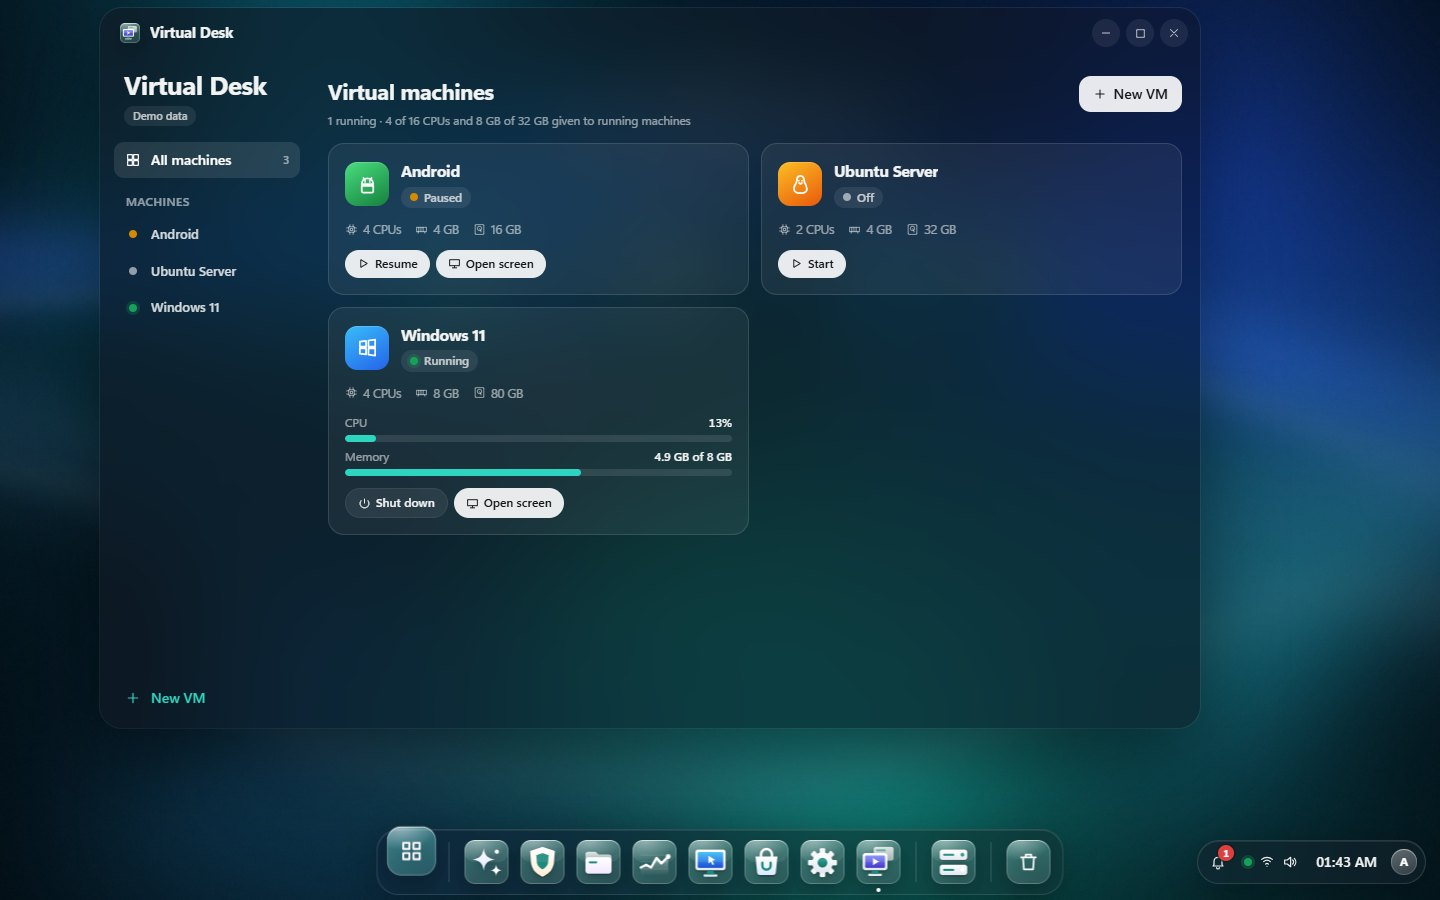
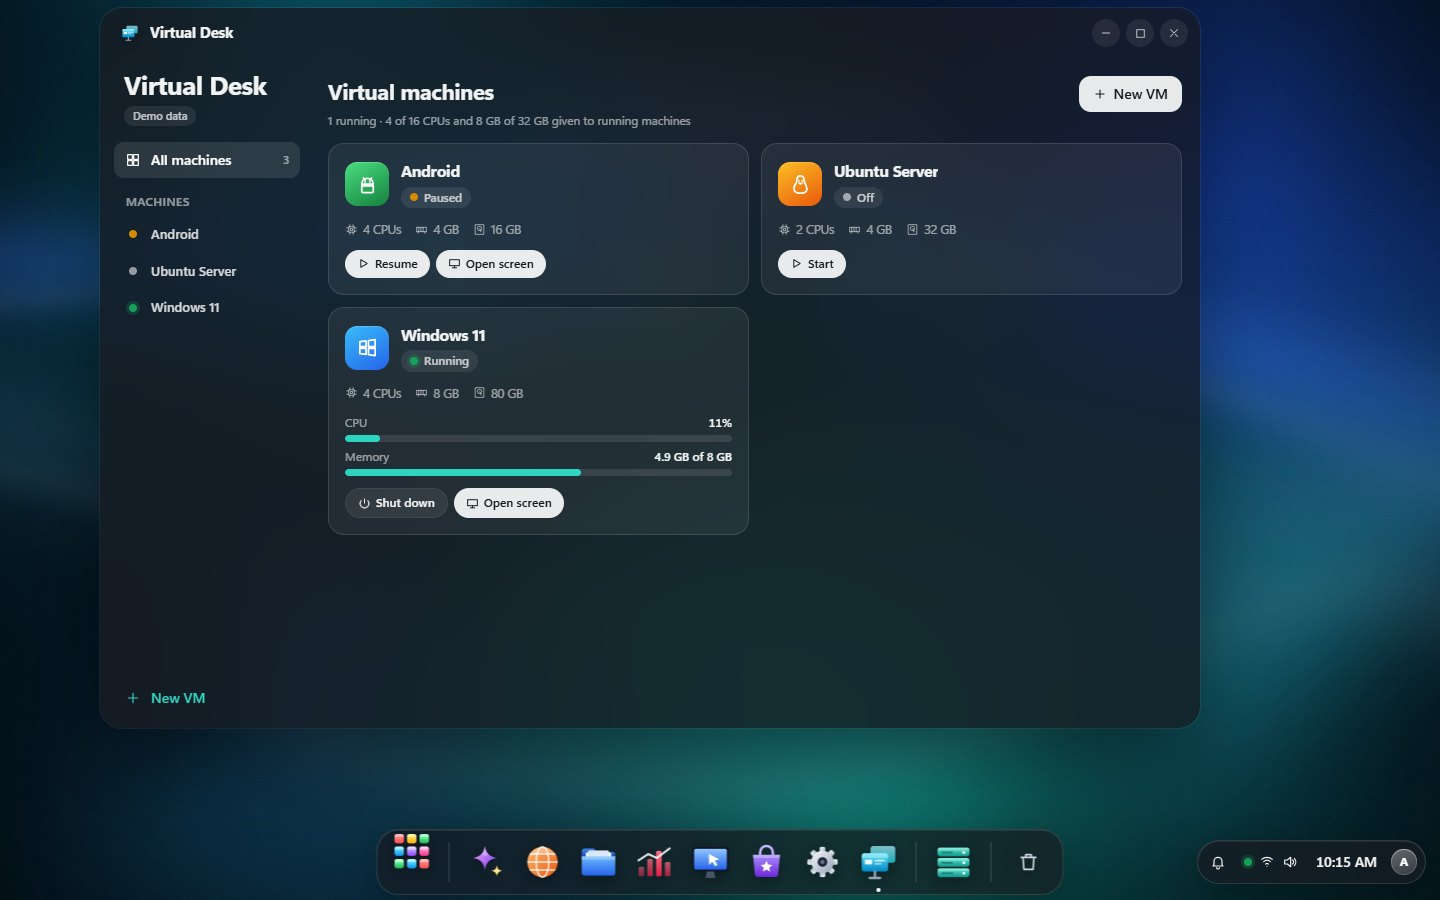
Site and README: per-person spaces, shared folders and the new look
Feature lists cover private homes, shared folders with per-person
permissions, apps per person, the new icons, Transparency slider and menu
bar. Screenshots retaken on 0.5.0 (device name hidden), plus File Sharing.

diff --git a/docs/index.html b/docs/index.html
@@ -207,18 +207,18 @@ footer a:hover{color:#fff}
     <p>NoCapOS runs as root on your machine, so it can manage the whole box, and every change is admin-only and written to an audit log.</p>
   </div>
   <div class="grid">
-    <div class="card"><div class="ic"><svg viewBox="0 0 24 24" fill="none" stroke="currentColor" stroke-width="1.8"><path d="M4 6h16v12H4zM4 10h16"/></svg></div><h3>Glass desktop</h3><p>A frosted-glass desktop with 10 wallpapers. The accent and the glass app icons follow the wallpaper, and your installed apps sit on the home screen.</p></div>
+    <div class="card"><div class="ic"><svg viewBox="0 0 24 24" fill="none" stroke="currentColor" stroke-width="1.8"><path d="M4 6h16v12H4zM4 10h16"/></svg></div><h3>Glass desktop</h3><p>A frosted-glass desktop with 10 wallpapers and a Transparency slider, glossy app icons, and a menu bar on the wallpaper with your profile and account menu.</p></div>
     <div class="card"><div class="ic"><svg viewBox="0 0 24 24" fill="none" stroke="currentColor" stroke-width="1.8"><path d="M5 8h14l-1 12H6zM9 8V6a3 3 0 0 1 6 0v2"/></svg></div><h3>App Store</h3><p>One-click Jellyfin, Nextcloud, Open WebUI + Ollama, Vaultwarden, Syncthing, Gitea, code-server, n8n and more, with updates and release notes. Click and hold to remove.</p></div>
     <div class="card"><div class="ic"><svg viewBox="0 0 24 24" fill="none" stroke="currentColor" stroke-width="1.8"><path d="M3 6h7l2 2h9v11H3z"/></svg></div><h3>Files</h3><p>Home, Recents, Favorites, shared folders, network devices and external drives, with quick look, zip/tar, Trash and protected system folders.</p></div>
     <div class="card"><div class="ic"><svg viewBox="0 0 24 24" fill="none" stroke="currentColor" stroke-width="1.8"><rect x="3" y="5" width="18" height="14" rx="2"/><path d="m3 16 5-5 4 4 3-3 6 6"/></svg></div><h3>Photos</h3><p>A timeline by years, months and days, albums, favorites, a viewer with camera details, and Recently Deleted.</p></div>
     <div class="card"><div class="ic"><svg viewBox="0 0 24 24" fill="none" stroke="currentColor" stroke-width="1.8"><path d="M12 3a9 9 0 1 1-8.5 6"/><path d="M3 4v5h5M12 8v4l3 2"/></svg></div><h3>Backups & Rewind</h3><p>Encrypted, scheduled backups to a drive, SFTP or S3/B2, and Rewind to bring back any file from any day.</p></div>
     <div class="card"><div class="ic"><svg viewBox="0 0 24 24" fill="none" stroke="currentColor" stroke-width="1.8"><rect x="4" y="4" width="16" height="7" rx="2"/><rect x="4" y="13" width="16" height="7" rx="2"/></svg></div><h3>Storage & ZFS</h3><p>Disk health (SMART), ZFS pools (mirror, RAIDZ1/2/3), datasets, snapshots and scrubs. Erasing always needs a typed confirmation.</p></div>
-    <div class="card"><div class="ic"><svg viewBox="0 0 24 24" fill="none" stroke="currentColor" stroke-width="1.8"><path d="M4 7h16v10H4zM8 21h8M12 17v4"/><path d="M8 11h8"/></svg></div><h3>Network drives & sharing</h3><p>Connect SMB/NFS shares, and share any folder over SMB and WebDAV, right inside Files. Plus Cloud Imports from Google Drive, Dropbox and OneDrive.</p></div>
+    <div class="card"><div class="ic"><svg viewBox="0 0 24 24" fill="none" stroke="currentColor" stroke-width="1.8"><path d="M4 7h16v10H4zM8 21h8M12 17v4"/><path d="M8 11h8"/></svg></div><h3>Shared folders</h3><p>Create shared folders in Files and give each person Read/Write, Read only or No access. They connect over SMB or WebDAV with their own password. Plus SMB/NFS drives and Cloud Imports.</p></div>
     <div class="card"><div class="ic"><svg viewBox="0 0 24 24" fill="none" stroke="currentColor" stroke-width="1.8"><rect x="6" y="3" width="15" height="11" rx="2"/><rect x="3" y="7" width="15" height="11" rx="2"/><path d="M8 21h6M11 18v3"/></svg></div><h3>Virtual Desk</h3><p>Run Windows, Linux and Android virtual machines: a four-step New VM wizard, live usage, snapshots, and each machine's screen in its own window.</p></div>
     <div class="card"><div class="ic"><svg viewBox="0 0 24 24" fill="none" stroke="currentColor" stroke-width="1.8"><path d="M6 16V11a6 6 0 0 1 12 0v5l2 2H4zM10 21h4"/></svg></div><h3>Notifications</h3><p>Updates, app updates, app errors, storage and backups. macOS-style banners with the menu-bar desktop, Windows-style toasts with the taskbar.</p></div>
     <div class="card"><div class="ic"><svg viewBox="0 0 24 24" fill="none" stroke="currentColor" stroke-width="1.8"><path d="M12 3l8 4.5v9L12 21l-8-4.5v-9zM12 12l8-4.5M12 12v9M12 12 4 7.5"/></svg></div><h3>Docker, your way</h3><p>Edit any container (ports, folders, macvlan/ipvlan networks, environment, limits), create networks and run Compose stacks.</p></div>
     <div class="card"><div class="ic"><svg viewBox="0 0 24 24" fill="none" stroke="currentColor" stroke-width="1.8"><path d="M4 5h16v14H4zM7 9l3 3-3 3M13 15h4"/></svg></div><h3>Root terminal</h3><p>A real shell on the server, or inside any container, right in the browser.</p></div>
-    <div class="card"><div class="ic"><svg viewBox="0 0 24 24" fill="none" stroke="currentColor" stroke-width="1.8"><path d="M16 14a4 4 0 1 0-8 0M12 10a3 3 0 1 0 0-6 3 3 0 0 0 0 6zM4 20c0-3 3.6-5 8-5s8 2 8 5"/></svg></div><h3>Users & network</h3><p>Sign in with the machine's Linux accounts, manage users, join Wi-Fi, set static IPs with automatic rollback, check for updates.</p></div>
+    <div class="card"><div class="ic"><svg viewBox="0 0 24 24" fill="none" stroke="currentColor" stroke-width="1.8"><path d="M16 14a4 4 0 1 0-8 0M12 10a3 3 0 1 0 0-6 3 3 0 0 0 0 6zM4 20c0-3 3.6-5 8-5s8 2 8 5"/></svg></div><h3>A space for everyone</h3><p>Each person gets a private Home (their own Linux home), sees only the folders and apps you allow, and keeps their own look. Plus Wi-Fi, static IPs and updates.</p></div>
     <div class="card"><div class="ic"><svg viewBox="0 0 24 24" fill="none" stroke="currentColor" stroke-width="1.8"><path d="M3 12h4l3-7 4 14 3-7h4"/></svg></div><h3>Monitor & more</h3><p>Live CPU, memory, disks, network and GPUs, plus Remote Desktop, a Brave browser, one-click scripts and a local AI assistant.</p></div>
     <div class="card"><div class="ic"><svg viewBox="0 0 24 24" fill="none" stroke="currentColor" stroke-width="1.8"><path d="M12 3l8 4v5c0 5-3.4 8-8 9-4.6-1-8-4-8-9V7z"/></svg></div><h3>Secure by default</h3><p>argon2id passwords, two-factor sign-in, rotating sessions, an audit log of every admin action and protected system folders.</p></div>
   </div>
@@ -231,7 +231,7 @@ footer a:hover{color:#fff}
     <p>Real screenshots of NoCapOS running on a Linux server.</p>
   </div>
   <div class="shots">
-    <figure class="shot"><a href="screenshots/launchpad.jpg"><img src="screenshots/launchpad.jpg" alt="Launchpad" loading="lazy" width="1440" height="900"></a><figcaption><b>Launchpad</b>Glass icons for NoCapOS apps, real icons for installed apps.</figcaption></figure>
+    <figure class="shot"><a href="screenshots/launchpad.jpg"><img src="screenshots/launchpad.jpg" alt="Launchpad" loading="lazy" width="1440" height="900"></a><figcaption><b>Launchpad</b>Glossy icons for NoCapOS apps, real icons for installed apps.</figcaption></figure>
     <figure class="shot"><a href="screenshots/files.jpg"><img src="screenshots/files.jpg" alt="Files" loading="lazy" width="1440" height="900"></a><figcaption><b>Files</b>Favorites, recents, network devices and quick look.</figcaption></figure>
     <figure class="shot"><a href="screenshots/photos.jpg"><img src="screenshots/photos.jpg" alt="Photos timeline" loading="lazy" width="1440" height="900"></a><figcaption><b>Photos</b>Timeline, On this day, albums and favorites.</figcaption></figure>
     <figure class="shot"><a href="screenshots/app-store.jpg"><img src="screenshots/app-store.jpg" alt="App Store" loading="lazy" width="1440" height="900"></a><figcaption><b>App Store</b>Featured apps, categories, installs and updates.</figcaption></figure>
@@ -239,6 +239,7 @@ footer a:hover{color:#fff}
     <figure class="shot"><a href="screenshots/storage.jpg"><img src="screenshots/storage.jpg" alt="Storage with ZFS pools" loading="lazy" width="1440" height="900"></a><figcaption><b>Storage</b>Disk health and ZFS pools (sample data).</figcaption></figure>
     <figure class="shot"><a href="screenshots/virtual-desk.jpg"><img src="screenshots/virtual-desk.jpg" alt="Virtual Desk" loading="lazy" width="1440" height="900"></a><figcaption><b>Virtual Desk</b>Virtual machines with live usage (sample data).</figcaption></figure>
     <figure class="shot"><a href="screenshots/virtual-desk-new.jpg"><img src="screenshots/virtual-desk-new.jpg" alt="New virtual machine wizard" loading="lazy" width="1440" height="900"></a><figcaption><b>New VM</b>Pick the system, ISO, resources and network.</figcaption></figure>
+    <figure class="shot"><a href="screenshots/file-sharing.jpg"><img src="screenshots/file-sharing.jpg" alt="File Sharing in Files" loading="lazy" width="1440" height="900"></a><figcaption><b>File Sharing</b>Shared folders and who may use them, right in Files.</figcaption></figure>
     <figure class="shot"><a href="screenshots/login.jpg"><img src="screenshots/login.jpg" alt="Lock screen" loading="lazy" width="1440" height="900"></a><figcaption><b>Lock screen</b>Your photo over the wallpaper.</figcaption></figure>
     <figure class="shot"><a href="screenshots/cyber-deck.jpg"><img src="screenshots/cyber-deck.jpg" alt="Cyber-Deck theme" loading="lazy" width="1440" height="900"></a><figcaption><b>Cyber-Deck</b>An optional sci-fi theme with holographic widgets.</figcaption></figure>
   </div>

diff --git a/README.md b/README.md
@@ -39,9 +39,13 @@ Already downloaded a bundle? `tar -xzf nocapos-linux-arm64.tar.gz && sudo bash n
 
 ## What you get
 
-- **A desktop in the browser** — a frosted *Glass* look with 10 wallpapers (the accent and the glass app
-  icons follow the wallpaper), a home screen with your installed apps, dock, Launchpad, windows, widgets
-  and a lock screen. Classic and *Cyber-Deck* themes too.
+- **A desktop in the browser** — a frosted *Glass* look with 10 wallpapers and a Transparency slider, glossy
+  app icons (Objects, Glass tiles or Shapes), a menu bar that sits on the wallpaper with your profile photo
+  and account menu, a home screen with your installed apps, dock, Launchpad, windows, widgets and a lock
+  screen. Classic and *Cyber-Deck* themes too.
+- **Everyone gets their own space** — each person has a private Home (their own Linux home on a Linux
+  install), sees only the shared folders and apps you allow, and keeps their own look. People can be
+  *Desktop* users or *File sharing only*.
 - **App Store** — one-click self-hosted apps (Jellyfin, Nextcloud, Open WebUI + Ollama, Vaultwarden,
   Syncthing, Gitea, code-server, n8n, …) with their own icons, updates ("Update all") and release notes.
   Click and hold an installed app to wiggle and remove it.
@@ -53,7 +57,9 @@ Already downloaded a bundle? `tar -xzf nocapos-linux-arm64.tar.gz && sudo bash n
   any file from any day.
 - **Storage** — disk health (SMART), ZFS pools (mirror, RAIDZ1/2/3), datasets, snapshots and scrubs, or
   use a single disk as storage. Erasing always needs a typed confirmation.
-- **Network drives & sharing** — connect SMB/NFS shares and share folders over SMB and WebDAV, inside Files.
+- **Shared folders & network drives** — create shared folders in Files and give each person Read/Write, Read
+  only or No access; they connect over SMB or WebDAV with their own user name and password. Connect SMB/NFS
+  shares from other devices too.
 - **People and their spaces** — everyone gets a private home (their own Linux home on a native install),
   shared folders with Read & write / Read only / No access per person, and a choice of which apps each
   person sees. People can be desktop users or file-sharing-only (SMB/WebDAV with their own password).
@@ -75,11 +81,12 @@ Already downloaded a bundle? `tar -xzf nocapos-linux-arm64.tar.gz && sudo bash n
 
 | | |
 |---|---|
-| ![Launchpad](docs/screenshots/launchpad.jpg) **Launchpad** — glass icons for NoCapOS apps, real icons for installed apps | ![Files](docs/screenshots/files.jpg) **Files** — favorites, recents, network devices and quick look |
+| ![Launchpad](docs/screenshots/launchpad.jpg) **Launchpad** — glossy icons for NoCapOS apps, real icons for installed apps | ![Files](docs/screenshots/files.jpg) **Files** — favorites, recents, network devices and quick look |
 | ![Photos](docs/screenshots/photos.jpg) **Photos** — timeline, On this day, albums and favorites | ![App Store](docs/screenshots/app-store.jpg) **App Store** — featured apps, categories and updates |
 | ![Settings](docs/screenshots/settings.jpg) **Settings** — Network, General, Personalization, Security and more | ![Storage](docs/screenshots/storage.jpg) **Storage** — disk health and ZFS pools (sample data) |
 | ![Virtual Desk](docs/screenshots/virtual-desk.jpg) **Virtual Desk** — virtual machines with live usage (sample data) | ![New VM](docs/screenshots/virtual-desk-new.jpg) **New VM** — pick the system, ISO, resources and network |
-| ![Lock screen](docs/screenshots/login.jpg) **Lock screen** — your photo over the wallpaper | ![Cyber-Deck](docs/screenshots/cyber-deck.jpg) **Cyber-Deck** — an optional sci-fi theme |
+| ![File Sharing](docs/screenshots/file-sharing.jpg) **File Sharing** — shared folders and who may use them, in Files | ![Lock screen](docs/screenshots/login.jpg) **Lock screen** — your photo over the wallpaper |
+| ![Cyber-Deck](docs/screenshots/cyber-deck.jpg) **Cyber-Deck** — an optional sci-fi theme | |
 
 ## Updating
 
